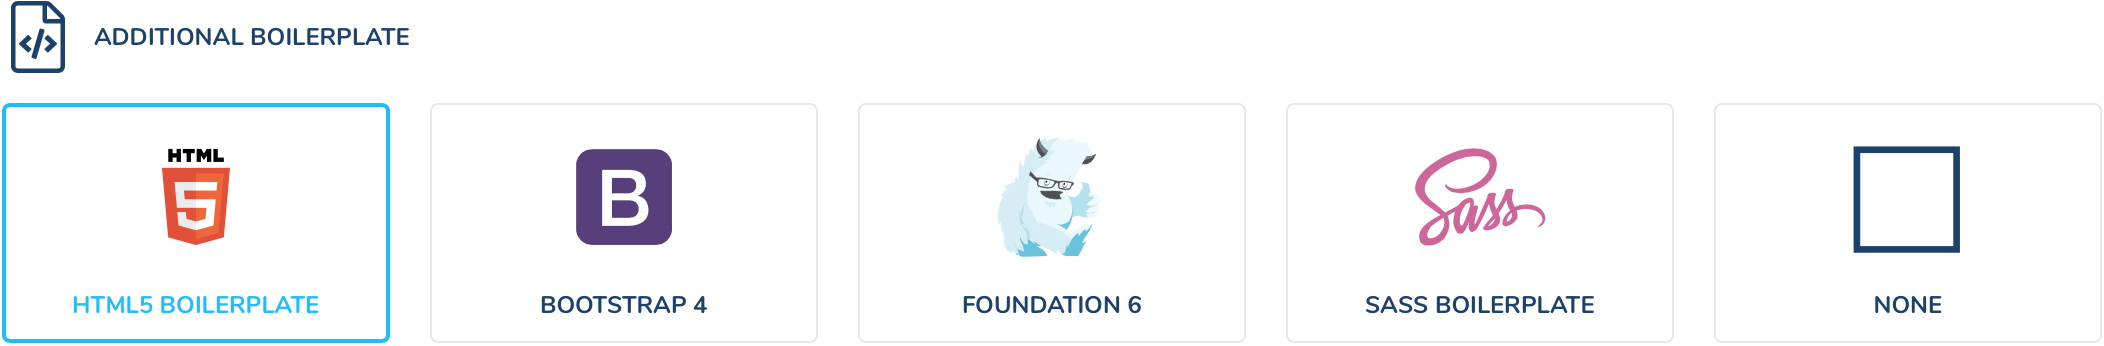
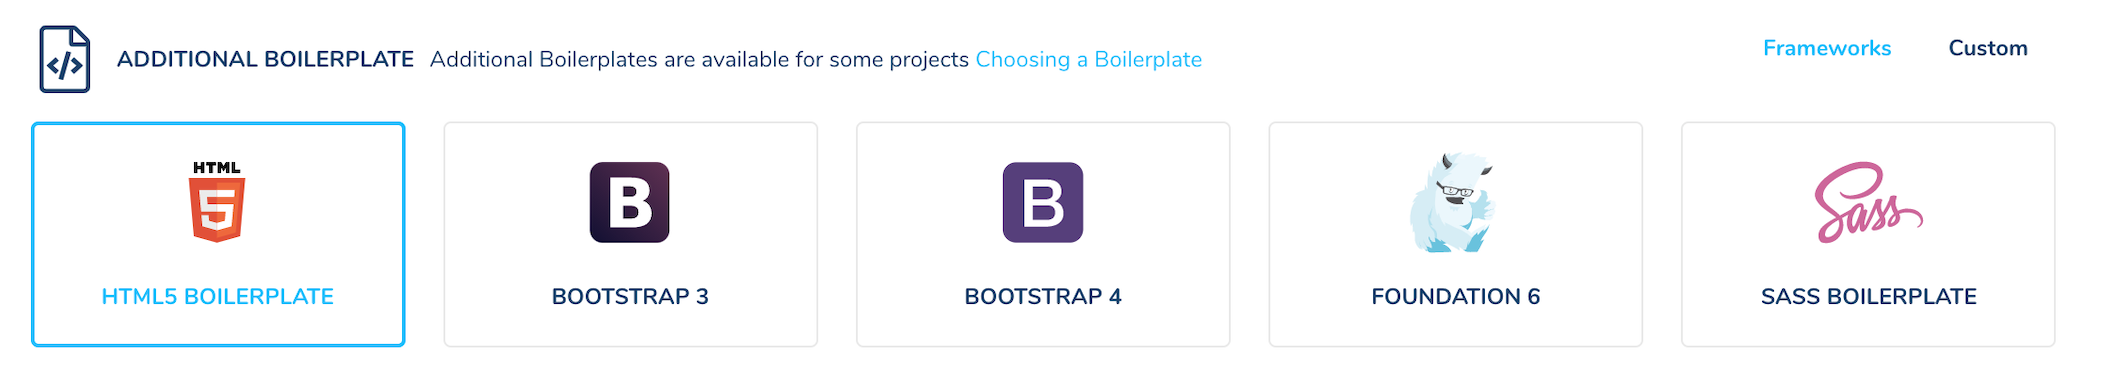
Updated control panel images (#76)
* Updated control panel images

* Updated control panel images

* Deleted unused old images

* Updated cp images

diff --git a/reference/divio-components-shell.rst b/reference/divio-components-shell.rst
@@ -36,7 +36,7 @@ SSH sessions are limited to 30 minutes, regardless of any activity.
 
 You can also copy SSH connection details from the appropriate pane in the Control Panel:
 
-.. image:: /images/control-panel-open-shell.png
+.. image:: /images/environments.png
    :alt: 'Control Panel SSH icon'
    :width: 430
 
